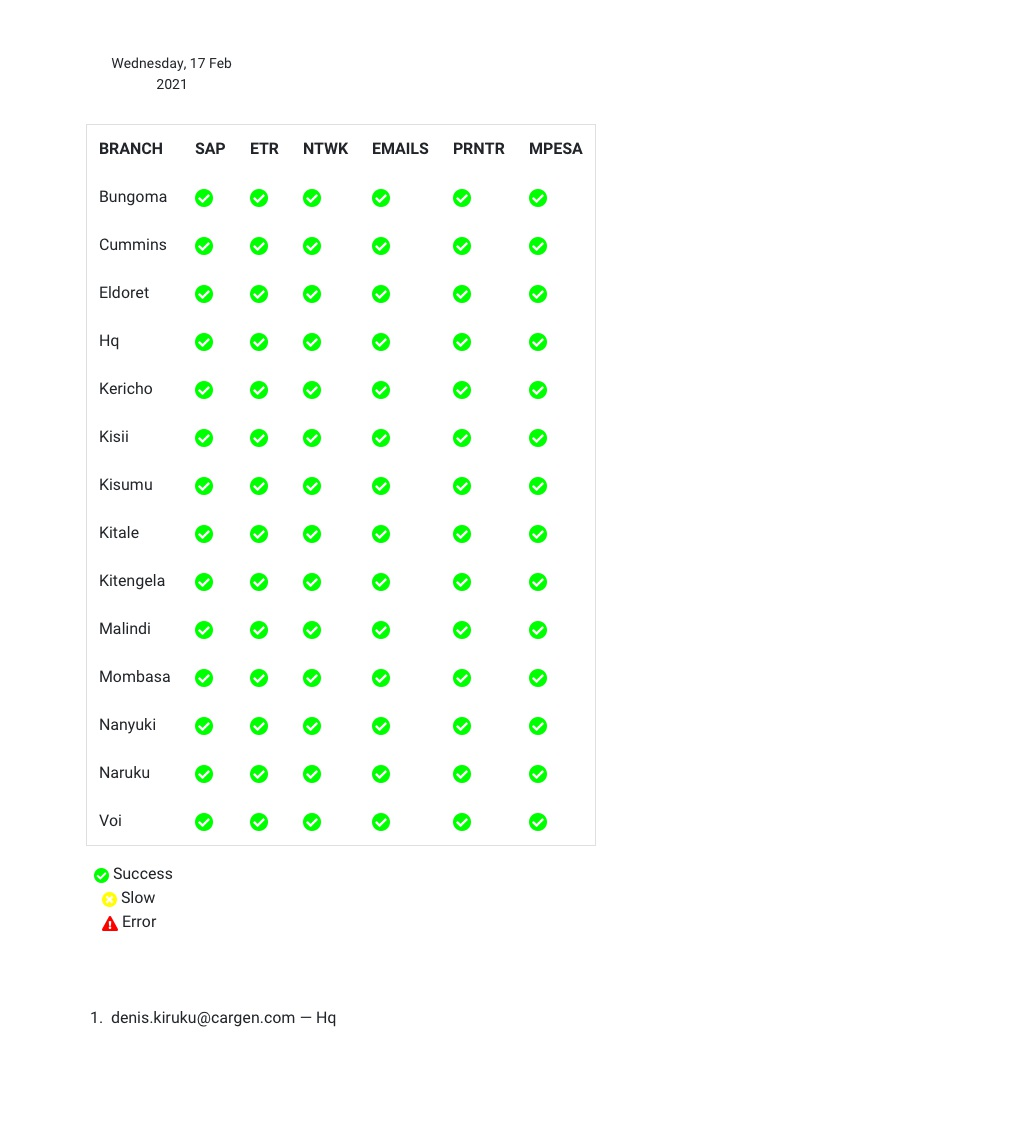
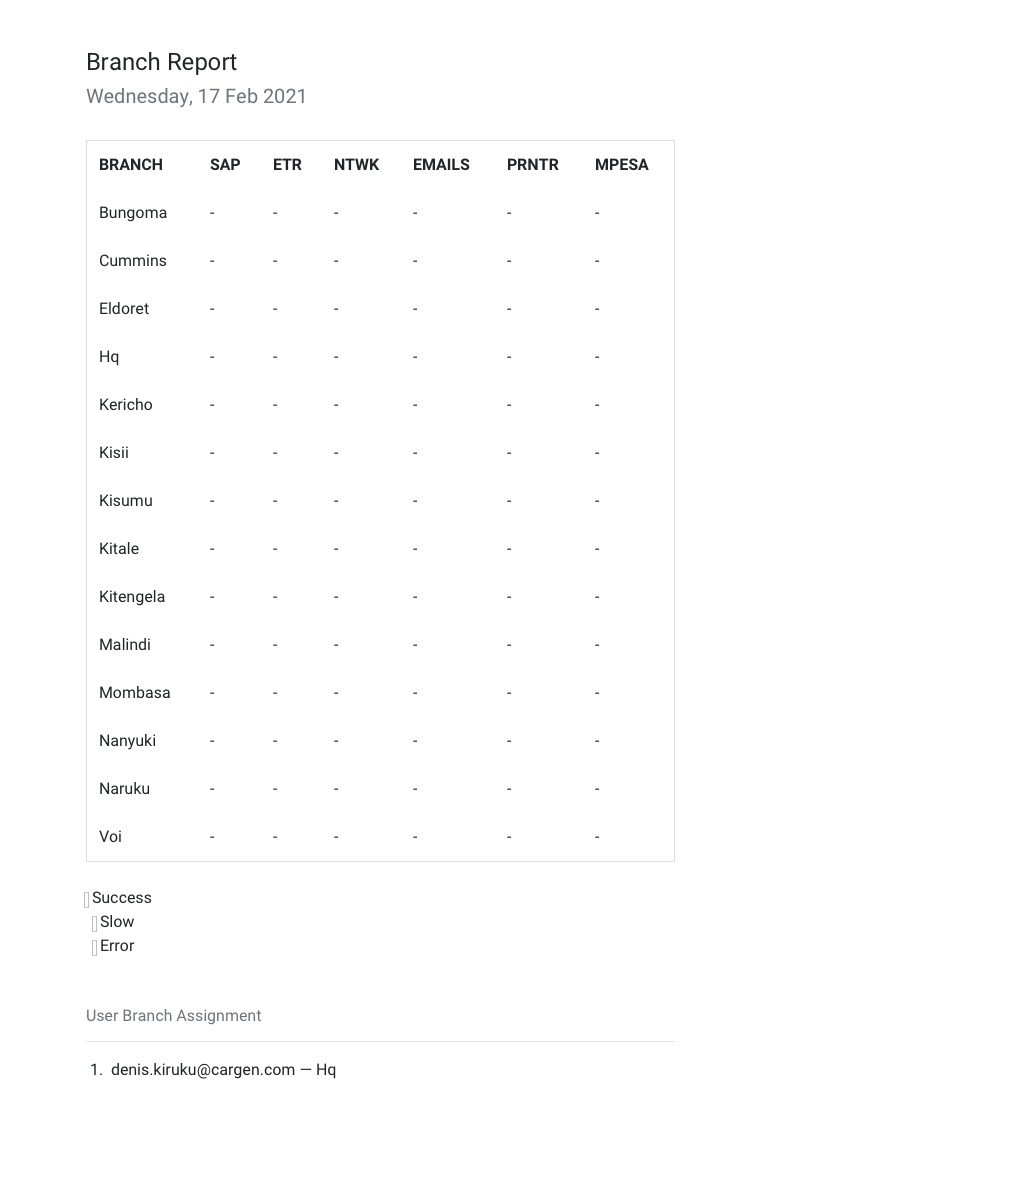
main

diff --git a/tools/templates/reports.html b/tools/templates/reports.html
@@ -54,9 +54,9 @@
         </table>
         <div class="container">
                <div class="row mt-4 mb-5" style="width:100%; margin-left:-25px;">
-                   <div><img class="pl-2" src='{{ icons["success"]  }}' alt="" height="15px">  Success</div>
-                   <div><img class="ml-2 pl-2" src='{{ icons["slow"] }}' alt="" height="15px">  Slow</div>
-                   <div><img class="ml-2 pl-2" src='{{ icons["error"] }}' alt="" height="15px">  Error</div>
+                   <div><img class="pl-2" src='{{ icons[0]  }}' alt="" height="15px">  Success</div>
+                   <div><img class="ml-2 pl-2" src='{{ icons[1] }}' alt="" height="15px">  Slow</div>
+                   <div><img class="ml-2 pl-2" src='{{ icons[2] }}' alt="" height="15px">  Error</div>
                </div>
         </div>
 

diff --git a/tools/__init__.py b/tools/__init__.py
@@ -22,11 +22,8 @@ cors = CORS(app)
 # setting sql_alchemy database consts
 app.config["SQLALCHEMY_DATABASE_URI"] = f"mysql+mysqlconnector://{db_user}:{db_pass}@localhost:3306/tools"
 app.config["SQLALCHEMY_TRACK_MODIFICATIONS"] = False
-<<<<<<< HEAD
 app.config["SECRET_KEY"] = f"{random.getrandbits(512)}"
-=======
 app.config["SECRET_KEY"] = '123454'
->>>>>>> 80ca4b86df191aa4d0744507e346b4a750df908c
 app.config["MAIL_SERVER"] = "mail.cargen.com"
 app.config["MAIL_PORT"] = 4050
 app.config["MAIL_USE_TLS"] = False

diff --git a/tools/utils/utils.py b/tools/utils/utils.py
@@ -702,7 +702,6 @@ def daily_report_data():
         lookup = [dict(row) for row in lookup]
         final.append({"name": branch.name, "data": lookup})
 
-    print(final)
     res = {"reports": final, "date": date_}
     return res
 
